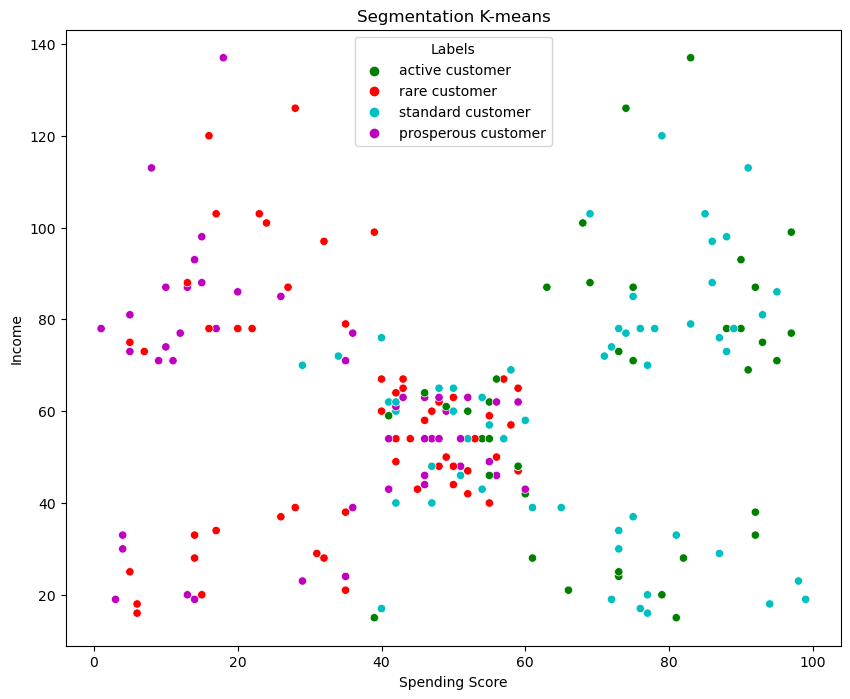
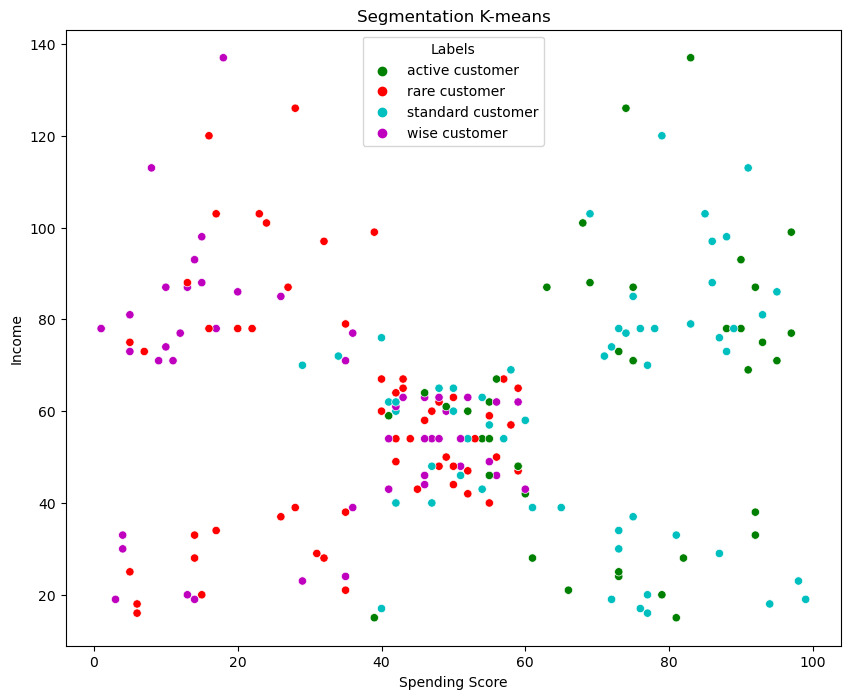
Update tsdn2022 post

Changed region(s): [[0.4282, 0.0901, 0.6424, 0.2103]]

diff --git a/_posts/2022-12-10-tsdn_customer_segmentation.md b/_posts/2022-12-10-tsdn_customer_segmentation.md
@@ -512,7 +512,7 @@ kmeans.fit(segmentation_std)
 
 
 
-<style>#sk-container-id-1 {color: black;background-color: white;}#sk-container-id-1 pre{padding: 0;}#sk-container-id-1 div.sk-toggleable {background-color: white;}#sk-container-id-1 label.sk-toggleable__label {cursor: pointer;display: block;width: 100%;margin-bottom: 0;padding: 0.3em;box-sizing: border-box;text-align: center;}#sk-container-id-1 label.sk-toggleable__label-arrow:before {content: "▸";float: left;margin-right: 0.25em;color: #696969;}#sk-container-id-1 label.sk-toggleable__label-arrow:hover:before {color: black;}#sk-container-id-1 div.sk-estimator:hover label.sk-toggleable__label-arrow:before {color: black;}#sk-container-id-1 div.sk-toggleable__content {max-height: 0;max-width: 0;overflow: hidden;text-align: left;background-color: #f0f8ff;}#sk-container-id-1 div.sk-toggleable__content pre {margin: 0.2em;color: black;border-radius: 0.25em;background-color: #f0f8ff;}#sk-container-id-1 input.sk-toggleable__control:checked~div.sk-toggleable__content {max-height: 200px;max-width: 100%;overflow: auto;}#sk-container-id-1 input.sk-toggleable__control:checked~label.sk-toggleable__label-arrow:before {content: "▾";}#sk-container-id-1 div.sk-estimator input.sk-toggleable__control:checked~label.sk-toggleable__label {background-color: #d4ebff;}#sk-container-id-1 div.sk-label input.sk-toggleable__control:checked~label.sk-toggleable__label {background-color: #d4ebff;}#sk-container-id-1 input.sk-hidden--visually {border: 0;clip: rect(1px 1px 1px 1px);clip: rect(1px, 1px, 1px, 1px);height: 1px;margin: -1px;overflow: hidden;padding: 0;position: absolute;width: 1px;}#sk-container-id-1 div.sk-estimator {font-family: monospace;background-color: #f0f8ff;border: 1px dotted black;border-radius: 0.25em;box-sizing: border-box;margin-bottom: 0.5em;}#sk-container-id-1 div.sk-estimator:hover {background-color: #d4ebff;}#sk-container-id-1 div.sk-parallel-item::after {content: "";width: 100%;border-bottom: 1px solid gray;flex-grow: 1;}#sk-container-id-1 div.sk-label:hover label.sk-toggleable__label {background-color: #d4ebff;}#sk-container-id-1 div.sk-serial::before {content: "";position: absolute;border-left: 1px solid gray;box-sizing: border-box;top: 0;bottom: 0;left: 50%;z-index: 0;}#sk-container-id-1 div.sk-serial {display: flex;flex-direction: column;align-items: center;background-color: white;padding-right: 0.2em;padding-left: 0.2em;position: relative;}#sk-container-id-1 div.sk-item {position: relative;z-index: 1;}#sk-container-id-1 div.sk-parallel {display: flex;align-items: stretch;justify-content: center;background-color: white;position: relative;}#sk-container-id-1 div.sk-item::before, #sk-container-id-1 div.sk-parallel-item::before {content: "";position: absolute;border-left: 1px solid gray;box-sizing: border-box;top: 0;bottom: 0;left: 50%;z-index: -1;}#sk-container-id-1 div.sk-parallel-item {display: flex;flex-direction: column;z-index: 1;position: relative;background-color: white;}#sk-container-id-1 div.sk-parallel-item:first-child::after {align-self: flex-end;width: 50%;}#sk-container-id-1 div.sk-parallel-item:last-child::after {align-self: flex-start;width: 50%;}#sk-container-id-1 div.sk-parallel-item:only-child::after {width: 0;}#sk-container-id-1 div.sk-dashed-wrapped {border: 1px dashed gray;margin: 0 0.4em 0.5em 0.4em;box-sizing: border-box;padding-bottom: 0.4em;background-color: white;}#sk-container-id-1 div.sk-label label {font-family: monospace;font-weight: bold;display: inline-block;line-height: 1.2em;}#sk-container-id-1 div.sk-label-container {text-align: center;}#sk-container-id-1 div.sk-container {/* jupyter's `normalize.less` sets `[hidden] { display: none; }` but bootstrap.min.css set `[hidden] { display: none !important; }` so we also need the `!important` here to be able to override the default hidden behavior on the sphinx rendered scikit-learn.org. See: https://github.com/scikit-learn/scikit-learn/issues/21755 */display: inline-block !important;position: relative;}#sk-container-id-1 div.sk-text-repr-fallback {display: none;}</style><div id="sk-container-id-1" class="sk-top-container"><div class="sk-text-repr-fallback"><pre>KMeans(n_clusters=4, random_state=42)</pre><b>In a Jupyter environment, please rerun this cell to show the HTML representation or trust the notebook. <br />On GitHub, the HTML representation is unable to render, please try loading this page with nbviewer.org.</b></div><div class="sk-container" hidden><div class="sk-item"><div class="sk-estimator sk-toggleable"><input class="sk-toggleable__control sk-hidden--visually" id="sk-estimator-id-1" type="checkbox" checked><label for="sk-estimator-id-1" class="sk-toggleable__label sk-toggleable__label-arrow">KMeans</label><div class="sk-toggleable__content"><pre>KMeans(n_clusters=4, random_state=42)</pre></div></div></div></div></div>
+<style>#sk-container-id-5 {color: black;background-color: white;}#sk-container-id-5 pre{padding: 0;}#sk-container-id-5 div.sk-toggleable {background-color: white;}#sk-container-id-5 label.sk-toggleable__label {cursor: pointer;display: block;width: 100%;margin-bottom: 0;padding: 0.3em;box-sizing: border-box;text-align: center;}#sk-container-id-5 label.sk-toggleable__label-arrow:before {content: "▸";float: left;margin-right: 0.25em;color: #696969;}#sk-container-id-5 label.sk-toggleable__label-arrow:hover:before {color: black;}#sk-container-id-5 div.sk-estimator:hover label.sk-toggleable__label-arrow:before {color: black;}#sk-container-id-5 div.sk-toggleable__content {max-height: 0;max-width: 0;overflow: hidden;text-align: left;background-color: #f0f8ff;}#sk-container-id-5 div.sk-toggleable__content pre {margin: 0.2em;color: black;border-radius: 0.25em;background-color: #f0f8ff;}#sk-container-id-5 input.sk-toggleable__control:checked~div.sk-toggleable__content {max-height: 200px;max-width: 100%;overflow: auto;}#sk-container-id-5 input.sk-toggleable__control:checked~label.sk-toggleable__label-arrow:before {content: "▾";}#sk-container-id-5 div.sk-estimator input.sk-toggleable__control:checked~label.sk-toggleable__label {background-color: #d4ebff;}#sk-container-id-5 div.sk-label input.sk-toggleable__control:checked~label.sk-toggleable__label {background-color: #d4ebff;}#sk-container-id-5 input.sk-hidden--visually {border: 0;clip: rect(1px 1px 1px 1px);clip: rect(1px, 1px, 1px, 1px);height: 1px;margin: -1px;overflow: hidden;padding: 0;position: absolute;width: 1px;}#sk-container-id-5 div.sk-estimator {font-family: monospace;background-color: #f0f8ff;border: 1px dotted black;border-radius: 0.25em;box-sizing: border-box;margin-bottom: 0.5em;}#sk-container-id-5 div.sk-estimator:hover {background-color: #d4ebff;}#sk-container-id-5 div.sk-parallel-item::after {content: "";width: 100%;border-bottom: 1px solid gray;flex-grow: 1;}#sk-container-id-5 div.sk-label:hover label.sk-toggleable__label {background-color: #d4ebff;}#sk-container-id-5 div.sk-serial::before {content: "";position: absolute;border-left: 1px solid gray;box-sizing: border-box;top: 0;bottom: 0;left: 50%;z-index: 0;}#sk-container-id-5 div.sk-serial {display: flex;flex-direction: column;align-items: center;background-color: white;padding-right: 0.2em;padding-left: 0.2em;position: relative;}#sk-container-id-5 div.sk-item {position: relative;z-index: 1;}#sk-container-id-5 div.sk-parallel {display: flex;align-items: stretch;justify-content: center;background-color: white;position: relative;}#sk-container-id-5 div.sk-item::before, #sk-container-id-5 div.sk-parallel-item::before {content: "";position: absolute;border-left: 1px solid gray;box-sizing: border-box;top: 0;bottom: 0;left: 50%;z-index: -1;}#sk-container-id-5 div.sk-parallel-item {display: flex;flex-direction: column;z-index: 1;position: relative;background-color: white;}#sk-container-id-5 div.sk-parallel-item:first-child::after {align-self: flex-end;width: 50%;}#sk-container-id-5 div.sk-parallel-item:last-child::after {align-self: flex-start;width: 50%;}#sk-container-id-5 div.sk-parallel-item:only-child::after {width: 0;}#sk-container-id-5 div.sk-dashed-wrapped {border: 1px dashed gray;margin: 0 0.4em 0.5em 0.4em;box-sizing: border-box;padding-bottom: 0.4em;background-color: white;}#sk-container-id-5 div.sk-label label {font-family: monospace;font-weight: bold;display: inline-block;line-height: 1.2em;}#sk-container-id-5 div.sk-label-container {text-align: center;}#sk-container-id-5 div.sk-container {/* jupyter's `normalize.less` sets `[hidden] { display: none; }` but bootstrap.min.css set `[hidden] { display: none !important; }` so we also need the `!important` here to be able to override the default hidden behavior on the sphinx rendered scikit-learn.org. See: https://github.com/scikit-learn/scikit-learn/issues/21755 */display: inline-block !important;position: relative;}#sk-container-id-5 div.sk-text-repr-fallback {display: none;}</style><div id="sk-container-id-5" class="sk-top-container"><div class="sk-text-repr-fallback"><pre>KMeans(n_clusters=4, random_state=42)</pre><b>In a Jupyter environment, please rerun this cell to show the HTML representation or trust the notebook. <br />On GitHub, the HTML representation is unable to render, please try loading this page with nbviewer.org.</b></div><div class="sk-container" hidden><div class="sk-item"><div class="sk-estimator sk-toggleable"><input class="sk-toggleable__control sk-hidden--visually" id="sk-estimator-id-5" type="checkbox" checked><label for="sk-estimator-id-5" class="sk-toggleable__label sk-toggleable__label-arrow">KMeans</label><div class="sk-toggleable__content"><pre>KMeans(n_clusters=4, random_state=42)</pre></div></div></div></div></div>
 
 
 
@@ -785,7 +785,7 @@ df_segm_analysis
 
 ```python
 # Add the segment labels to our table
-df_segm_kmeans['Labels'] = df_segm_kmeans['Segment K-means'].map({0:'prosperous customer', 
+df_segm_kmeans['Labels'] = df_segm_kmeans['Segment K-means'].map({0:'wise customer', 
                                                                   1:'standard customer',
                                                                   2:'rare customer', 
                                                                   3:'active customer'})
@@ -821,7 +821,7 @@ plt.title('Segmentation K-means')
 plt.show()
 ```
 
-    C:\Users\ASUS\AppData\Local\Temp\ipykernel_4768\2911316098.py:6: UserWarning: The palette list has more values (5) than needed (4), which may not be intended.
+    C:\Users\ASUS\AppData\Local\Temp\ipykernel_30264\2911316098.py:6: UserWarning: The palette list has more values (5) than needed (4), which may not be intended.
       sns.scatterplot(x=x_axis, y=y_axis, hue = df_segm_kmeans['Labels'], palette = ['g', 'r', 'c', 'm', 'y'], legend=False)
     
 
@@ -843,7 +843,7 @@ plt.title('Segmentation K-means')
 plt.show()
 ```
 
-    C:\Users\ASUS\AppData\Local\Temp\ipykernel_4768\1279089453.py:6: UserWarning: The palette list has more values (5) than needed (4), which may not be intended.
+    C:\Users\ASUS\AppData\Local\Temp\ipykernel_30264\1279089453.py:6: UserWarning: The palette list has more values (5) than needed (4), which may not be intended.
       sns.scatterplot(x=x_axis, y=y_axis, hue = df_segm_kmeans['Labels'], palette = ['g', 'r', 'c', 'm', 'y'])
     
 
@@ -865,7 +865,7 @@ plt.title('Segmentation K-means')
 plt.show()
 ```
 
-    C:\Users\ASUS\AppData\Local\Temp\ipykernel_4768\2421465087.py:6: UserWarning: The palette list has more values (5) than needed (4), which may not be intended.
+    C:\Users\ASUS\AppData\Local\Temp\ipykernel_30264\2421465087.py:6: UserWarning: The palette list has more values (5) than needed (4), which may not be intended.
       sns.scatterplot(x=x_axis, y=y_axis, hue = df_segm_kmeans['Labels'], palette = ['g', 'r', 'c', 'm', 'y'])
     
 
@@ -892,7 +892,7 @@ pca.fit(segmentation_std)
 
 
 
-<style>#sk-container-id-2 {color: black;background-color: white;}#sk-container-id-2 pre{padding: 0;}#sk-container-id-2 div.sk-toggleable {background-color: white;}#sk-container-id-2 label.sk-toggleable__label {cursor: pointer;display: block;width: 100%;margin-bottom: 0;padding: 0.3em;box-sizing: border-box;text-align: center;}#sk-container-id-2 label.sk-toggleable__label-arrow:before {content: "▸";float: left;margin-right: 0.25em;color: #696969;}#sk-container-id-2 label.sk-toggleable__label-arrow:hover:before {color: black;}#sk-container-id-2 div.sk-estimator:hover label.sk-toggleable__label-arrow:before {color: black;}#sk-container-id-2 div.sk-toggleable__content {max-height: 0;max-width: 0;overflow: hidden;text-align: left;background-color: #f0f8ff;}#sk-container-id-2 div.sk-toggleable__content pre {margin: 0.2em;color: black;border-radius: 0.25em;background-color: #f0f8ff;}#sk-container-id-2 input.sk-toggleable__control:checked~div.sk-toggleable__content {max-height: 200px;max-width: 100%;overflow: auto;}#sk-container-id-2 input.sk-toggleable__control:checked~label.sk-toggleable__label-arrow:before {content: "▾";}#sk-container-id-2 div.sk-estimator input.sk-toggleable__control:checked~label.sk-toggleable__label {background-color: #d4ebff;}#sk-container-id-2 div.sk-label input.sk-toggleable__control:checked~label.sk-toggleable__label {background-color: #d4ebff;}#sk-container-id-2 input.sk-hidden--visually {border: 0;clip: rect(1px 1px 1px 1px);clip: rect(1px, 1px, 1px, 1px);height: 1px;margin: -1px;overflow: hidden;padding: 0;position: absolute;width: 1px;}#sk-container-id-2 div.sk-estimator {font-family: monospace;background-color: #f0f8ff;border: 1px dotted black;border-radius: 0.25em;box-sizing: border-box;margin-bottom: 0.5em;}#sk-container-id-2 div.sk-estimator:hover {background-color: #d4ebff;}#sk-container-id-2 div.sk-parallel-item::after {content: "";width: 100%;border-bottom: 1px solid gray;flex-grow: 1;}#sk-container-id-2 div.sk-label:hover label.sk-toggleable__label {background-color: #d4ebff;}#sk-container-id-2 div.sk-serial::before {content: "";position: absolute;border-left: 1px solid gray;box-sizing: border-box;top: 0;bottom: 0;left: 50%;z-index: 0;}#sk-container-id-2 div.sk-serial {display: flex;flex-direction: column;align-items: center;background-color: white;padding-right: 0.2em;padding-left: 0.2em;position: relative;}#sk-container-id-2 div.sk-item {position: relative;z-index: 1;}#sk-container-id-2 div.sk-parallel {display: flex;align-items: stretch;justify-content: center;background-color: white;position: relative;}#sk-container-id-2 div.sk-item::before, #sk-container-id-2 div.sk-parallel-item::before {content: "";position: absolute;border-left: 1px solid gray;box-sizing: border-box;top: 0;bottom: 0;left: 50%;z-index: -1;}#sk-container-id-2 div.sk-parallel-item {display: flex;flex-direction: column;z-index: 1;position: relative;background-color: white;}#sk-container-id-2 div.sk-parallel-item:first-child::after {align-self: flex-end;width: 50%;}#sk-container-id-2 div.sk-parallel-item:last-child::after {align-self: flex-start;width: 50%;}#sk-container-id-2 div.sk-parallel-item:only-child::after {width: 0;}#sk-container-id-2 div.sk-dashed-wrapped {border: 1px dashed gray;margin: 0 0.4em 0.5em 0.4em;box-sizing: border-box;padding-bottom: 0.4em;background-color: white;}#sk-container-id-2 div.sk-label label {font-family: monospace;font-weight: bold;display: inline-block;line-height: 1.2em;}#sk-container-id-2 div.sk-label-container {text-align: center;}#sk-container-id-2 div.sk-container {/* jupyter's `normalize.less` sets `[hidden] { display: none; }` but bootstrap.min.css set `[hidden] { display: none !important; }` so we also need the `!important` here to be able to override the default hidden behavior on the sphinx rendered scikit-learn.org. See: https://github.com/scikit-learn/scikit-learn/issues/21755 */display: inline-block !important;position: relative;}#sk-container-id-2 div.sk-text-repr-fallback {display: none;}</style><div id="sk-container-id-2" class="sk-top-container"><div class="sk-text-repr-fallback"><pre>PCA()</pre><b>In a Jupyter environment, please rerun this cell to show the HTML representation or trust the notebook. <br />On GitHub, the HTML representation is unable to render, please try loading this page with nbviewer.org.</b></div><div class="sk-container" hidden><div class="sk-item"><div class="sk-estimator sk-toggleable"><input class="sk-toggleable__control sk-hidden--visually" id="sk-estimator-id-2" type="checkbox" checked><label for="sk-estimator-id-2" class="sk-toggleable__label sk-toggleable__label-arrow">PCA</label><div class="sk-toggleable__content"><pre>PCA()</pre></div></div></div></div></div>
+<style>#sk-container-id-6 {color: black;background-color: white;}#sk-container-id-6 pre{padding: 0;}#sk-container-id-6 div.sk-toggleable {background-color: white;}#sk-container-id-6 label.sk-toggleable__label {cursor: pointer;display: block;width: 100%;margin-bottom: 0;padding: 0.3em;box-sizing: border-box;text-align: center;}#sk-container-id-6 label.sk-toggleable__label-arrow:before {content: "▸";float: left;margin-right: 0.25em;color: #696969;}#sk-container-id-6 label.sk-toggleable__label-arrow:hover:before {color: black;}#sk-container-id-6 div.sk-estimator:hover label.sk-toggleable__label-arrow:before {color: black;}#sk-container-id-6 div.sk-toggleable__content {max-height: 0;max-width: 0;overflow: hidden;text-align: left;background-color: #f0f8ff;}#sk-container-id-6 div.sk-toggleable__content pre {margin: 0.2em;color: black;border-radius: 0.25em;background-color: #f0f8ff;}#sk-container-id-6 input.sk-toggleable__control:checked~div.sk-toggleable__content {max-height: 200px;max-width: 100%;overflow: auto;}#sk-container-id-6 input.sk-toggleable__control:checked~label.sk-toggleable__label-arrow:before {content: "▾";}#sk-container-id-6 div.sk-estimator input.sk-toggleable__control:checked~label.sk-toggleable__label {background-color: #d4ebff;}#sk-container-id-6 div.sk-label input.sk-toggleable__control:checked~label.sk-toggleable__label {background-color: #d4ebff;}#sk-container-id-6 input.sk-hidden--visually {border: 0;clip: rect(1px 1px 1px 1px);clip: rect(1px, 1px, 1px, 1px);height: 1px;margin: -1px;overflow: hidden;padding: 0;position: absolute;width: 1px;}#sk-container-id-6 div.sk-estimator {font-family: monospace;background-color: #f0f8ff;border: 1px dotted black;border-radius: 0.25em;box-sizing: border-box;margin-bottom: 0.5em;}#sk-container-id-6 div.sk-estimator:hover {background-color: #d4ebff;}#sk-container-id-6 div.sk-parallel-item::after {content: "";width: 100%;border-bottom: 1px solid gray;flex-grow: 1;}#sk-container-id-6 div.sk-label:hover label.sk-toggleable__label {background-color: #d4ebff;}#sk-container-id-6 div.sk-serial::before {content: "";position: absolute;border-left: 1px solid gray;box-sizing: border-box;top: 0;bottom: 0;left: 50%;z-index: 0;}#sk-container-id-6 div.sk-serial {display: flex;flex-direction: column;align-items: center;background-color: white;padding-right: 0.2em;padding-left: 0.2em;position: relative;}#sk-container-id-6 div.sk-item {position: relative;z-index: 1;}#sk-container-id-6 div.sk-parallel {display: flex;align-items: stretch;justify-content: center;background-color: white;position: relative;}#sk-container-id-6 div.sk-item::before, #sk-container-id-6 div.sk-parallel-item::before {content: "";position: absolute;border-left: 1px solid gray;box-sizing: border-box;top: 0;bottom: 0;left: 50%;z-index: -1;}#sk-container-id-6 div.sk-parallel-item {display: flex;flex-direction: column;z-index: 1;position: relative;background-color: white;}#sk-container-id-6 div.sk-parallel-item:first-child::after {align-self: flex-end;width: 50%;}#sk-container-id-6 div.sk-parallel-item:last-child::after {align-self: flex-start;width: 50%;}#sk-container-id-6 div.sk-parallel-item:only-child::after {width: 0;}#sk-container-id-6 div.sk-dashed-wrapped {border: 1px dashed gray;margin: 0 0.4em 0.5em 0.4em;box-sizing: border-box;padding-bottom: 0.4em;background-color: white;}#sk-container-id-6 div.sk-label label {font-family: monospace;font-weight: bold;display: inline-block;line-height: 1.2em;}#sk-container-id-6 div.sk-label-container {text-align: center;}#sk-container-id-6 div.sk-container {/* jupyter's `normalize.less` sets `[hidden] { display: none; }` but bootstrap.min.css set `[hidden] { display: none !important; }` so we also need the `!important` here to be able to override the default hidden behavior on the sphinx rendered scikit-learn.org. See: https://github.com/scikit-learn/scikit-learn/issues/21755 */display: inline-block !important;position: relative;}#sk-container-id-6 div.sk-text-repr-fallback {display: none;}</style><div id="sk-container-id-6" class="sk-top-container"><div class="sk-text-repr-fallback"><pre>PCA()</pre><b>In a Jupyter environment, please rerun this cell to show the HTML representation or trust the notebook. <br />On GitHub, the HTML representation is unable to render, please try loading this page with nbviewer.org.</b></div><div class="sk-container" hidden><div class="sk-item"><div class="sk-estimator sk-toggleable"><input class="sk-toggleable__control sk-hidden--visually" id="sk-estimator-id-6" type="checkbox" checked><label for="sk-estimator-id-6" class="sk-toggleable__label sk-toggleable__label-arrow">PCA</label><div class="sk-toggleable__content"><pre>PCA()</pre></div></div></div></div></div>
 
 
 
@@ -961,7 +961,7 @@ pca.fit(segmentation_std)
 
 
 
-<style>#sk-container-id-3 {color: black;background-color: white;}#sk-container-id-3 pre{padding: 0;}#sk-container-id-3 div.sk-toggleable {background-color: white;}#sk-container-id-3 label.sk-toggleable__label {cursor: pointer;display: block;width: 100%;margin-bottom: 0;padding: 0.3em;box-sizing: border-box;text-align: center;}#sk-container-id-3 label.sk-toggleable__label-arrow:before {content: "▸";float: left;margin-right: 0.25em;color: #696969;}#sk-container-id-3 label.sk-toggleable__label-arrow:hover:before {color: black;}#sk-container-id-3 div.sk-estimator:hover label.sk-toggleable__label-arrow:before {color: black;}#sk-container-id-3 div.sk-toggleable__content {max-height: 0;max-width: 0;overflow: hidden;text-align: left;background-color: #f0f8ff;}#sk-container-id-3 div.sk-toggleable__content pre {margin: 0.2em;color: black;border-radius: 0.25em;background-color: #f0f8ff;}#sk-container-id-3 input.sk-toggleable__control:checked~div.sk-toggleable__content {max-height: 200px;max-width: 100%;overflow: auto;}#sk-container-id-3 input.sk-toggleable__control:checked~label.sk-toggleable__label-arrow:before {content: "▾";}#sk-container-id-3 div.sk-estimator input.sk-toggleable__control:checked~label.sk-toggleable__label {background-color: #d4ebff;}#sk-container-id-3 div.sk-label input.sk-toggleable__control:checked~label.sk-toggleable__label {background-color: #d4ebff;}#sk-container-id-3 input.sk-hidden--visually {border: 0;clip: rect(1px 1px 1px 1px);clip: rect(1px, 1px, 1px, 1px);height: 1px;margin: -1px;overflow: hidden;padding: 0;position: absolute;width: 1px;}#sk-container-id-3 div.sk-estimator {font-family: monospace;background-color: #f0f8ff;border: 1px dotted black;border-radius: 0.25em;box-sizing: border-box;margin-bottom: 0.5em;}#sk-container-id-3 div.sk-estimator:hover {background-color: #d4ebff;}#sk-container-id-3 div.sk-parallel-item::after {content: "";width: 100%;border-bottom: 1px solid gray;flex-grow: 1;}#sk-container-id-3 div.sk-label:hover label.sk-toggleable__label {background-color: #d4ebff;}#sk-container-id-3 div.sk-serial::before {content: "";position: absolute;border-left: 1px solid gray;box-sizing: border-box;top: 0;bottom: 0;left: 50%;z-index: 0;}#sk-container-id-3 div.sk-serial {display: flex;flex-direction: column;align-items: center;background-color: white;padding-right: 0.2em;padding-left: 0.2em;position: relative;}#sk-container-id-3 div.sk-item {position: relative;z-index: 1;}#sk-container-id-3 div.sk-parallel {display: flex;align-items: stretch;justify-content: center;background-color: white;position: relative;}#sk-container-id-3 div.sk-item::before, #sk-container-id-3 div.sk-parallel-item::before {content: "";position: absolute;border-left: 1px solid gray;box-sizing: border-box;top: 0;bottom: 0;left: 50%;z-index: -1;}#sk-container-id-3 div.sk-parallel-item {display: flex;flex-direction: column;z-index: 1;position: relative;background-color: white;}#sk-container-id-3 div.sk-parallel-item:first-child::after {align-self: flex-end;width: 50%;}#sk-container-id-3 div.sk-parallel-item:last-child::after {align-self: flex-start;width: 50%;}#sk-container-id-3 div.sk-parallel-item:only-child::after {width: 0;}#sk-container-id-3 div.sk-dashed-wrapped {border: 1px dashed gray;margin: 0 0.4em 0.5em 0.4em;box-sizing: border-box;padding-bottom: 0.4em;background-color: white;}#sk-container-id-3 div.sk-label label {font-family: monospace;font-weight: bold;display: inline-block;line-height: 1.2em;}#sk-container-id-3 div.sk-label-container {text-align: center;}#sk-container-id-3 div.sk-container {/* jupyter's `normalize.less` sets `[hidden] { display: none; }` but bootstrap.min.css set `[hidden] { display: none !important; }` so we also need the `!important` here to be able to override the default hidden behavior on the sphinx rendered scikit-learn.org. See: https://github.com/scikit-learn/scikit-learn/issues/21755 */display: inline-block !important;position: relative;}#sk-container-id-3 div.sk-text-repr-fallback {display: none;}</style><div id="sk-container-id-3" class="sk-top-container"><div class="sk-text-repr-fallback"><pre>PCA(n_components=3)</pre><b>In a Jupyter environment, please rerun this cell to show the HTML representation or trust the notebook. <br />On GitHub, the HTML representation is unable to render, please try loading this page with nbviewer.org.</b></div><div class="sk-container" hidden><div class="sk-item"><div class="sk-estimator sk-toggleable"><input class="sk-toggleable__control sk-hidden--visually" id="sk-estimator-id-3" type="checkbox" checked><label for="sk-estimator-id-3" class="sk-toggleable__label sk-toggleable__label-arrow">PCA</label><div class="sk-toggleable__content"><pre>PCA(n_components=3)</pre></div></div></div></div></div>
+<style>#sk-container-id-7 {color: black;background-color: white;}#sk-container-id-7 pre{padding: 0;}#sk-container-id-7 div.sk-toggleable {background-color: white;}#sk-container-id-7 label.sk-toggleable__label {cursor: pointer;display: block;width: 100%;margin-bottom: 0;padding: 0.3em;box-sizing: border-box;text-align: center;}#sk-container-id-7 label.sk-toggleable__label-arrow:before {content: "▸";float: left;margin-right: 0.25em;color: #696969;}#sk-container-id-7 label.sk-toggleable__label-arrow:hover:before {color: black;}#sk-container-id-7 div.sk-estimator:hover label.sk-toggleable__label-arrow:before {color: black;}#sk-container-id-7 div.sk-toggleable__content {max-height: 0;max-width: 0;overflow: hidden;text-align: left;background-color: #f0f8ff;}#sk-container-id-7 div.sk-toggleable__content pre {margin: 0.2em;color: black;border-radius: 0.25em;background-color: #f0f8ff;}#sk-container-id-7 input.sk-toggleable__control:checked~div.sk-toggleable__content {max-height: 200px;max-width: 100%;overflow: auto;}#sk-container-id-7 input.sk-toggleable__control:checked~label.sk-toggleable__label-arrow:before {content: "▾";}#sk-container-id-7 div.sk-estimator input.sk-toggleable__control:checked~label.sk-toggleable__label {background-color: #d4ebff;}#sk-container-id-7 div.sk-label input.sk-toggleable__control:checked~label.sk-toggleable__label {background-color: #d4ebff;}#sk-container-id-7 input.sk-hidden--visually {border: 0;clip: rect(1px 1px 1px 1px);clip: rect(1px, 1px, 1px, 1px);height: 1px;margin: -1px;overflow: hidden;padding: 0;position: absolute;width: 1px;}#sk-container-id-7 div.sk-estimator {font-family: monospace;background-color: #f0f8ff;border: 1px dotted black;border-radius: 0.25em;box-sizing: border-box;margin-bottom: 0.5em;}#sk-container-id-7 div.sk-estimator:hover {background-color: #d4ebff;}#sk-container-id-7 div.sk-parallel-item::after {content: "";width: 100%;border-bottom: 1px solid gray;flex-grow: 1;}#sk-container-id-7 div.sk-label:hover label.sk-toggleable__label {background-color: #d4ebff;}#sk-container-id-7 div.sk-serial::before {content: "";position: absolute;border-left: 1px solid gray;box-sizing: border-box;top: 0;bottom: 0;left: 50%;z-index: 0;}#sk-container-id-7 div.sk-serial {display: flex;flex-direction: column;align-items: center;background-color: white;padding-right: 0.2em;padding-left: 0.2em;position: relative;}#sk-container-id-7 div.sk-item {position: relative;z-index: 1;}#sk-container-id-7 div.sk-parallel {display: flex;align-items: stretch;justify-content: center;background-color: white;position: relative;}#sk-container-id-7 div.sk-item::before, #sk-container-id-7 div.sk-parallel-item::before {content: "";position: absolute;border-left: 1px solid gray;box-sizing: border-box;top: 0;bottom: 0;left: 50%;z-index: -1;}#sk-container-id-7 div.sk-parallel-item {display: flex;flex-direction: column;z-index: 1;position: relative;background-color: white;}#sk-container-id-7 div.sk-parallel-item:first-child::after {align-self: flex-end;width: 50%;}#sk-container-id-7 div.sk-parallel-item:last-child::after {align-self: flex-start;width: 50%;}#sk-container-id-7 div.sk-parallel-item:only-child::after {width: 0;}#sk-container-id-7 div.sk-dashed-wrapped {border: 1px dashed gray;margin: 0 0.4em 0.5em 0.4em;box-sizing: border-box;padding-bottom: 0.4em;background-color: white;}#sk-container-id-7 div.sk-label label {font-family: monospace;font-weight: bold;display: inline-block;line-height: 1.2em;}#sk-container-id-7 div.sk-label-container {text-align: center;}#sk-container-id-7 div.sk-container {/* jupyter's `normalize.less` sets `[hidden] { display: none; }` but bootstrap.min.css set `[hidden] { display: none !important; }` so we also need the `!important` here to be able to override the default hidden behavior on the sphinx rendered scikit-learn.org. See: https://github.com/scikit-learn/scikit-learn/issues/21755 */display: inline-block !important;position: relative;}#sk-container-id-7 div.sk-text-repr-fallback {display: none;}</style><div id="sk-container-id-7" class="sk-top-container"><div class="sk-text-repr-fallback"><pre>PCA(n_components=3)</pre><b>In a Jupyter environment, please rerun this cell to show the HTML representation or trust the notebook. <br />On GitHub, the HTML representation is unable to render, please try loading this page with nbviewer.org.</b></div><div class="sk-container" hidden><div class="sk-item"><div class="sk-estimator sk-toggleable"><input class="sk-toggleable__control sk-hidden--visually" id="sk-estimator-id-7" type="checkbox" checked><label for="sk-estimator-id-7" class="sk-toggleable__label sk-toggleable__label-arrow">PCA</label><div class="sk-toggleable__content"><pre>PCA(n_components=3)</pre></div></div></div></div></div>
 
 
 
@@ -1064,9 +1064,9 @@ plt.yticks([0, 1, 2],
 
 
 
-    ([<matplotlib.axis.YTick at 0x2ef35aaba90>,
-      <matplotlib.axis.YTick at 0x2ef35aab430>,
-      <matplotlib.axis.YTick at 0x2ef35699c40>],
+    ([<matplotlib.axis.YTick at 0x1fd12327df0>,
+      <matplotlib.axis.YTick at 0x1fd0fac4fa0>,
+      <matplotlib.axis.YTick at 0x1fd12265e20>],
      [Text(0, 0, 'Component 1'),
       Text(0, 1, 'Component 2'),
       Text(0, 2, 'Component 3')])
@@ -1389,7 +1389,7 @@ kmeans_pca.fit(scores_pca)
 
 
 
-<style>#sk-container-id-4 {color: black;background-color: white;}#sk-container-id-4 pre{padding: 0;}#sk-container-id-4 div.sk-toggleable {background-color: white;}#sk-container-id-4 label.sk-toggleable__label {cursor: pointer;display: block;width: 100%;margin-bottom: 0;padding: 0.3em;box-sizing: border-box;text-align: center;}#sk-container-id-4 label.sk-toggleable__label-arrow:before {content: "▸";float: left;margin-right: 0.25em;color: #696969;}#sk-container-id-4 label.sk-toggleable__label-arrow:hover:before {color: black;}#sk-container-id-4 div.sk-estimator:hover label.sk-toggleable__label-arrow:before {color: black;}#sk-container-id-4 div.sk-toggleable__content {max-height: 0;max-width: 0;overflow: hidden;text-align: left;background-color: #f0f8ff;}#sk-container-id-4 div.sk-toggleable__content pre {margin: 0.2em;color: black;border-radius: 0.25em;background-color: #f0f8ff;}#sk-container-id-4 input.sk-toggleable__control:checked~div.sk-toggleable__content {max-height: 200px;max-width: 100%;overflow: auto;}#sk-container-id-4 input.sk-toggleable__control:checked~label.sk-toggleable__label-arrow:before {content: "▾";}#sk-container-id-4 div.sk-estimator input.sk-toggleable__control:checked~label.sk-toggleable__label {background-color: #d4ebff;}#sk-container-id-4 div.sk-label input.sk-toggleable__control:checked~label.sk-toggleable__label {background-color: #d4ebff;}#sk-container-id-4 input.sk-hidden--visually {border: 0;clip: rect(1px 1px 1px 1px);clip: rect(1px, 1px, 1px, 1px);height: 1px;margin: -1px;overflow: hidden;padding: 0;position: absolute;width: 1px;}#sk-container-id-4 div.sk-estimator {font-family: monospace;background-color: #f0f8ff;border: 1px dotted black;border-radius: 0.25em;box-sizing: border-box;margin-bottom: 0.5em;}#sk-container-id-4 div.sk-estimator:hover {background-color: #d4ebff;}#sk-container-id-4 div.sk-parallel-item::after {content: "";width: 100%;border-bottom: 1px solid gray;flex-grow: 1;}#sk-container-id-4 div.sk-label:hover label.sk-toggleable__label {background-color: #d4ebff;}#sk-container-id-4 div.sk-serial::before {content: "";position: absolute;border-left: 1px solid gray;box-sizing: border-box;top: 0;bottom: 0;left: 50%;z-index: 0;}#sk-container-id-4 div.sk-serial {display: flex;flex-direction: column;align-items: center;background-color: white;padding-right: 0.2em;padding-left: 0.2em;position: relative;}#sk-container-id-4 div.sk-item {position: relative;z-index: 1;}#sk-container-id-4 div.sk-parallel {display: flex;align-items: stretch;justify-content: center;background-color: white;position: relative;}#sk-container-id-4 div.sk-item::before, #sk-container-id-4 div.sk-parallel-item::before {content: "";position: absolute;border-left: 1px solid gray;box-sizing: border-box;top: 0;bottom: 0;left: 50%;z-index: -1;}#sk-container-id-4 div.sk-parallel-item {display: flex;flex-direction: column;z-index: 1;position: relative;background-color: white;}#sk-container-id-4 div.sk-parallel-item:first-child::after {align-self: flex-end;width: 50%;}#sk-container-id-4 div.sk-parallel-item:last-child::after {align-self: flex-start;width: 50%;}#sk-container-id-4 div.sk-parallel-item:only-child::after {width: 0;}#sk-container-id-4 div.sk-dashed-wrapped {border: 1px dashed gray;margin: 0 0.4em 0.5em 0.4em;box-sizing: border-box;padding-bottom: 0.4em;background-color: white;}#sk-container-id-4 div.sk-label label {font-family: monospace;font-weight: bold;display: inline-block;line-height: 1.2em;}#sk-container-id-4 div.sk-label-container {text-align: center;}#sk-container-id-4 div.sk-container {/* jupyter's `normalize.less` sets `[hidden] { display: none; }` but bootstrap.min.css set `[hidden] { display: none !important; }` so we also need the `!important` here to be able to override the default hidden behavior on the sphinx rendered scikit-learn.org. See: https://github.com/scikit-learn/scikit-learn/issues/21755 */display: inline-block !important;position: relative;}#sk-container-id-4 div.sk-text-repr-fallback {display: none;}</style><div id="sk-container-id-4" class="sk-top-container"><div class="sk-text-repr-fallback"><pre>KMeans(n_clusters=4, random_state=42)</pre><b>In a Jupyter environment, please rerun this cell to show the HTML representation or trust the notebook. <br />On GitHub, the HTML representation is unable to render, please try loading this page with nbviewer.org.</b></div><div class="sk-container" hidden><div class="sk-item"><div class="sk-estimator sk-toggleable"><input class="sk-toggleable__control sk-hidden--visually" id="sk-estimator-id-4" type="checkbox" checked><label for="sk-estimator-id-4" class="sk-toggleable__label sk-toggleable__label-arrow">KMeans</label><div class="sk-toggleable__content"><pre>KMeans(n_clusters=4, random_state=42)</pre></div></div></div></div></div>
+<style>#sk-container-id-8 {color: black;background-color: white;}#sk-container-id-8 pre{padding: 0;}#sk-container-id-8 div.sk-toggleable {background-color: white;}#sk-container-id-8 label.sk-toggleable__label {cursor: pointer;display: block;width: 100%;margin-bottom: 0;padding: 0.3em;box-sizing: border-box;text-align: center;}#sk-container-id-8 label.sk-toggleable__label-arrow:before {content: "▸";float: left;margin-right: 0.25em;color: #696969;}#sk-container-id-8 label.sk-toggleable__label-arrow:hover:before {color: black;}#sk-container-id-8 div.sk-estimator:hover label.sk-toggleable__label-arrow:before {color: black;}#sk-container-id-8 div.sk-toggleable__content {max-height: 0;max-width: 0;overflow: hidden;text-align: left;background-color: #f0f8ff;}#sk-container-id-8 div.sk-toggleable__content pre {margin: 0.2em;color: black;border-radius: 0.25em;background-color: #f0f8ff;}#sk-container-id-8 input.sk-toggleable__control:checked~div.sk-toggleable__content {max-height: 200px;max-width: 100%;overflow: auto;}#sk-container-id-8 input.sk-toggleable__control:checked~label.sk-toggleable__label-arrow:before {content: "▾";}#sk-container-id-8 div.sk-estimator input.sk-toggleable__control:checked~label.sk-toggleable__label {background-color: #d4ebff;}#sk-container-id-8 div.sk-label input.sk-toggleable__control:checked~label.sk-toggleable__label {background-color: #d4ebff;}#sk-container-id-8 input.sk-hidden--visually {border: 0;clip: rect(1px 1px 1px 1px);clip: rect(1px, 1px, 1px, 1px);height: 1px;margin: -1px;overflow: hidden;padding: 0;position: absolute;width: 1px;}#sk-container-id-8 div.sk-estimator {font-family: monospace;background-color: #f0f8ff;border: 1px dotted black;border-radius: 0.25em;box-sizing: border-box;margin-bottom: 0.5em;}#sk-container-id-8 div.sk-estimator:hover {background-color: #d4ebff;}#sk-container-id-8 div.sk-parallel-item::after {content: "";width: 100%;border-bottom: 1px solid gray;flex-grow: 1;}#sk-container-id-8 div.sk-label:hover label.sk-toggleable__label {background-color: #d4ebff;}#sk-container-id-8 div.sk-serial::before {content: "";position: absolute;border-left: 1px solid gray;box-sizing: border-box;top: 0;bottom: 0;left: 50%;z-index: 0;}#sk-container-id-8 div.sk-serial {display: flex;flex-direction: column;align-items: center;background-color: white;padding-right: 0.2em;padding-left: 0.2em;position: relative;}#sk-container-id-8 div.sk-item {position: relative;z-index: 1;}#sk-container-id-8 div.sk-parallel {display: flex;align-items: stretch;justify-content: center;background-color: white;position: relative;}#sk-container-id-8 div.sk-item::before, #sk-container-id-8 div.sk-parallel-item::before {content: "";position: absolute;border-left: 1px solid gray;box-sizing: border-box;top: 0;bottom: 0;left: 50%;z-index: -1;}#sk-container-id-8 div.sk-parallel-item {display: flex;flex-direction: column;z-index: 1;position: relative;background-color: white;}#sk-container-id-8 div.sk-parallel-item:first-child::after {align-self: flex-end;width: 50%;}#sk-container-id-8 div.sk-parallel-item:last-child::after {align-self: flex-start;width: 50%;}#sk-container-id-8 div.sk-parallel-item:only-child::after {width: 0;}#sk-container-id-8 div.sk-dashed-wrapped {border: 1px dashed gray;margin: 0 0.4em 0.5em 0.4em;box-sizing: border-box;padding-bottom: 0.4em;background-color: white;}#sk-container-id-8 div.sk-label label {font-family: monospace;font-weight: bold;display: inline-block;line-height: 1.2em;}#sk-container-id-8 div.sk-label-container {text-align: center;}#sk-container-id-8 div.sk-container {/* jupyter's `normalize.less` sets `[hidden] { display: none; }` but bootstrap.min.css set `[hidden] { display: none !important; }` so we also need the `!important` here to be able to override the default hidden behavior on the sphinx rendered scikit-learn.org. See: https://github.com/scikit-learn/scikit-learn/issues/21755 */display: inline-block !important;position: relative;}#sk-container-id-8 div.sk-text-repr-fallback {display: none;}</style><div id="sk-container-id-8" class="sk-top-container"><div class="sk-text-repr-fallback"><pre>KMeans(n_clusters=4, random_state=42)</pre><b>In a Jupyter environment, please rerun this cell to show the HTML representation or trust the notebook. <br />On GitHub, the HTML representation is unable to render, please try loading this page with nbviewer.org.</b></div><div class="sk-container" hidden><div class="sk-item"><div class="sk-estimator sk-toggleable"><input class="sk-toggleable__control sk-hidden--visually" id="sk-estimator-id-8" type="checkbox" checked><label for="sk-estimator-id-8" class="sk-toggleable__label sk-toggleable__label-arrow">KMeans</label><div class="sk-toggleable__content"><pre>KMeans(n_clusters=4, random_state=42)</pre></div></div></div></div></div>
 
 
 
@@ -2142,11 +2142,10 @@ df_segm_pca_kmeans_freq[['Gender', 'Age', 'Spending Score', 'N Obs']]
 
 
 ```python
-df_segm_pca_kmeans['Legend'] = df_segm_pca_kmeans['Segment K-means PCA'].map({0:'prosperous customer', 
+df_segm_pca_kmeans['Legend'] = df_segm_pca_kmeans['Segment K-means PCA'].map({0:'wise customer', 
                                                                   1:'standard customer',
                                                                   2:'rare customer', 
-                                                                  3:'active customer'}
-                                                                  )
+                                                                  3:'active customer'})
 ```
 
 
@@ -2157,10 +2156,10 @@ df_segm_pca_kmeans['Legend'].value_counts(dropna=False)
 
 
 
-    standard customer      56
-    active customer        56
-    prosperous customer    48
-    rare customer          40
+    standard customer    56
+    active customer      56
+    wise customer        48
+    rare customer        40
     Name: Legend, dtype: int64
 
 
@@ -2176,7 +2175,7 @@ plt.title('Clusters by PCA Components')
 plt.show()
 ```
 
-    C:\Users\ASUS\AppData\Local\Temp\ipykernel_4768\1547245716.py:5: UserWarning: The palette list has more values (5) than needed (4), which may not be intended.
+    C:\Users\ASUS\AppData\Local\Temp\ipykernel_30264\1547245716.py:5: UserWarning: The palette list has more values (5) than needed (4), which may not be intended.
       sns.scatterplot(x=x_axis, y=y_axis, hue = df_segm_pca_kmeans['Legend'], palette = ['g', 'r', 'c', 'm', 'y'])
     
 
@@ -2197,7 +2196,7 @@ plt.title('Clusters by PCA Components')
 plt.show()
 ```
 
-    C:\Users\ASUS\AppData\Local\Temp\ipykernel_4768\2146061291.py:5: UserWarning: The palette list has more values (5) than needed (4), which may not be intended.
+    C:\Users\ASUS\AppData\Local\Temp\ipykernel_30264\2146061291.py:5: UserWarning: The palette list has more values (5) than needed (4), which may not be intended.
       sns.scatterplot(x=x_axis_1, y=y_axis_1, hue = df_segm_pca_kmeans['Legend'], palette = ['g', 'r', 'c', 'm', 'y'])
     
 
@@ -2218,7 +2217,7 @@ plt.title('Clusters by PCA Components')
 plt.show()
 ```
 
-    C:\Users\ASUS\AppData\Local\Temp\ipykernel_4768\3902733220.py:5: UserWarning: The palette list has more values (5) than needed (4), which may not be intended.
+    C:\Users\ASUS\AppData\Local\Temp\ipykernel_30264\3902733220.py:5: UserWarning: The palette list has more values (5) than needed (4), which may not be intended.
       ax = sns.scatterplot(x=x_axis_1, y=y_axis_1, hue = df_segm_pca_kmeans['Legend'], palette = ['g', 'r', 'c', 'm', 'y'])
     
 
@@ -2239,13 +2238,13 @@ plt.title('Clusters by PCA Components')
 plt.show()
 ```
 
-    C:\Users\ASUS\AppData\Local\Temp\ipykernel_4768\3084581144.py:5: UserWarning: The palette list has more values (5) than needed (4), which may not be intended.
+    C:\Users\ASUS\AppData\Local\Temp\ipykernel_30264\3084581144.py:5: UserWarning: The palette list has more values (5) than needed (4), which may not be intended.
       sns.scatterplot(x=x_axis_1, y=y_axis_1, hue = df_segm_pca_kmeans['Legend'], palette = ['g', 'r', 'c', 'm', 'y'], legend=True)
     
 
 
     
-![png](/assets/images/tsdn2022_files/output_67_1.png)
+![png]/assets/images/tsdn2022_files/(output_67_1.png)
     
 
 
@@ -2365,11 +2364,10 @@ def predict_segment(data):
     
     segm_kmeans_pcanew =  kmeans_pca.predict(x_pca)
     predict_values = pd.DataFrame({'predict_segment':segm_kmeans_pcanew})
-    predict_values['Legend'] = predict_values['predict_segment'].map({0:'prosperous customer', 
+    predict_values['Legend'] = predict_values['predict_segment'].map({0:'wise customer', 
                                                                   1:'standard customer',
                                                                   2:'rare customer', 
-                                                                  3:'active customer',
-                                                                  4: 'top customer'})
+                                                                  3:'active customer'})
     return predict_values
 ```
 
@@ -2526,7 +2524,7 @@ predict_segment([[0, 19, 15, 39],
     <tr>
       <th>1</th>
       <td>0</td>
-      <td>prosperous customer</td>
+      <td>wise customer</td>
     </tr>
     <tr>
       <th>2</th>
